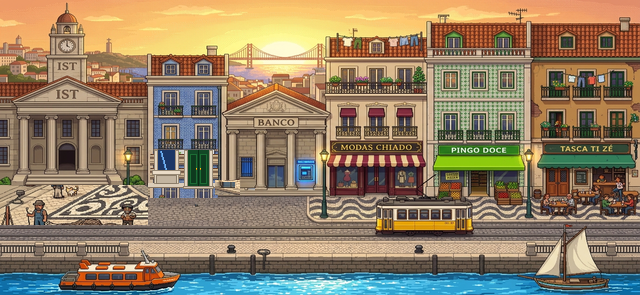
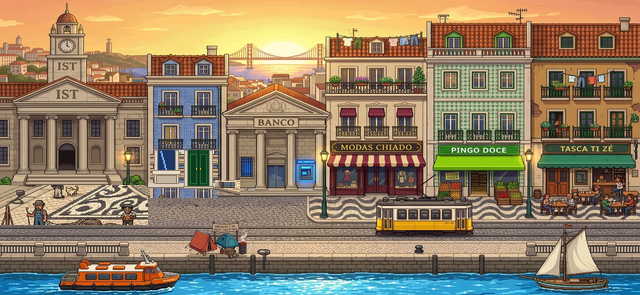
fix(ui): center top toolbar buttons and reposition Acampada to riverside quay with authentic LucasArts sprite

Changed region(s): [[0.2812, 0.7627, 0.4062, 0.8847]]

diff --git a/index.html b/index.html
@@ -198,12 +198,13 @@
         #arcade-toolbar {
             width: 100%;
             display: flex;
-            justify-content: space-between;
+            justify-content: center;
             align-items: center;
             flex-wrap: wrap;
-            gap: 6px;
-            padding: 2px 4px 6px;
+            gap: 8px;
+            padding: 4px 6px 8px;
             box-sizing: border-box;
+            text-align: center;
         }
 
         .arcade-link {
@@ -216,6 +217,7 @@
             font-size: 0.68rem;
             font-weight: 700;
             transition: all 0.2s ease;
+            white-space: nowrap;
         }
         .arcade-link:hover {
             color: #fbbf24;
@@ -227,6 +229,7 @@
             gap: 6px;
             flex-wrap: wrap;
             align-items: center;
+            justify-content: center;
         }
 
         .arcade-btn {
@@ -1777,7 +1780,7 @@ const BUILDINGS = [
     { id: 'miradouro', name: 'Miradouro', x: 0, y: 220, w: 140, h: 75, color: '#0369a1', accent: '#38bdf8', tag: 'DESCANSO & BOÉMIA', icon: '🌅', doorX: 65, doorY: 245, desc: 'O Boémio — Vista sobre o Tejo, descanso, fado à guitarra e tertúlias.' },
     { id: 'faculdade', name: 'Politec / IST', x: 0, y: 15, w: 146, h: 175, color: '#1e3a8a', accent: '#38bdf8', tag: 'ESTUDOS / ECTS', icon: '🎓', doorX: 72, doorY: 185, desc: 'Prof. Leitão — Aulas, cadeiras sequenciais e exames para o canudo no IST.' },
     { id: 'startup', name: 'IEFP / Emprego', x: 148, y: 35, w: 74, h: 155, color: '#065f46', accent: '#10b981', tag: 'IEFP & CARREIRAS', icon: '💼', doorX: 198, doorY: 195, desc: 'D. Mariana (IEFP, 45 anos) — Centro de Emprego, Orientação e Dossier Curricular.' },
-    { id: 'acampada', name: 'Acampada Rossio', x: 14, y: 186, w: 86, h: 42, color: '#dc2626', accent: '#f87171', tag: 'HABITAÇÃO & LUTA', icon: '⛺', doorX: 55, doorY: 212, desc: 'Inês — Vigília popular e assembleia pelo direito à habitação e turnos solidários.' },
+    { id: 'acampada', name: 'Acampada da Habitação', x: 185, y: 221, w: 90, h: 42, color: '#dc2626', accent: '#f87171', tag: 'HABITAÇÃO & LUTA', icon: '⛺', doorX: 235, doorY: 248, desc: 'Inês — Vigília popular e assembleia pelo direito à habitação e turnos solidários.' },
     { id: 'banco', name: 'Caixa / Banco', x: 222, y: 70, w: 104, h: 125, color: '#854d0e', accent: '#facc15', tag: 'BANCA & CRÉDITO', icon: '🏦', doorX: 275, doorY: 195, desc: 'Dr. Alcoviteiro — Poupança, Multibanco e carreiras financeiras.' },
     { id: 'loja_roupa', name: 'Loja de Roupa', x: 326, y: 70, w: 100, h: 125, color: '#db2777', accent: '#f472b6', tag: 'MODAS CHIADO', icon: '👗', doorX: 376, doorY: 195, desc: 'D. Zulmira — Fatos de gala, alfaiataria, trajes académicos e ateliê de costura.' },
     { id: 'supermercado', name: 'Pingo Doce', x: 426, y: 70, w: 104, h: 125, color: '#15803d', accent: '#86efac', tag: 'DESPENSA & RETALHO', icon: '🛒', doorX: 478, doorY: 195, desc: 'D. Maria — Mantimentos e carreiras de supermercado.' },
@@ -1874,10 +1877,10 @@ const LIVING_NPCS = [
     {
         id: 'ines_acampada',
         name: 'Inês (Acampada)',
-        x: 58, y: 196, radius: 24,
+        x: 254, y: 238, radius: 22,
         quotes: [
             "Habitação é um direito, não é um privilégio de fundos abutres!",
-            "Junta-te à nossa vigília no Rossio: partilhamos sopa quente e coragem.",
+            "Junta-te à nossa vigília ribeirinha: partilhamos sopa quente e coragem.",
             "Nenhum despejo sem alternativa digna em Lisboa!"
         ]
     }
@@ -1936,64 +1939,35 @@ function renderBoardLivingCharacters(ctx, animTimer) {
         ctx.fillRect(px2, py2 - 6 + Math.round(talkBob * 0.5), 4, 2);
     }
 
-    // 2. TENDAS & FAIXAS DA ACAMPADA DO ROSSIO (Praça do Rossio: x: 14 a 92, y: 190 a 226)
-    // Sombra das tendas no pavimento de ondas de basalto
-    ctx.fillStyle = 'rgba(0, 0, 0, 0.35)';
+    // 2. FOGAREIRO & CHAMA DA ACAMPADA RIBEIRINHA (x: 236..244, y: 236..248)
+    // Brilho quente do fogo no cais de pedra
+    const fireFlicker = Math.sin(animTimer * 12) * 1.5 + Math.cos(animTimer * 19) * 0.8;
+    const fireRadius = 14 + fireFlicker;
+    const fireGrad = ctx.createRadialGradient(240, 242, 2, 240, 242, Math.max(6, fireRadius));
+    fireGrad.addColorStop(0, 'rgba(251, 146, 60, 0.45)');
+    fireGrad.addColorStop(0.5, 'rgba(239, 68, 68, 0.20)');
+    fireGrad.addColorStop(1, 'rgba(239, 68, 68, 0)');
+    ctx.fillStyle = fireGrad;
     ctx.beginPath();
-    ctx.ellipse(32, 222, 16, 4, 0, 0, Math.PI * 2);
-    ctx.fill();
-    ctx.beginPath();
-    ctx.ellipse(75, 222, 15, 4, 0, 0, Math.PI * 2);
-    ctx.fill();
-
-    // Tenda Canadiana Encarnada
-    ctx.fillStyle = '#b91c1c';
-    ctx.beginPath();
-    ctx.moveTo(18, 221);
-    ctx.lineTo(32, 196);
-    ctx.lineTo(46, 221);
-    ctx.closePath();
-    ctx.fill();
-    ctx.fillStyle = '#dc2626';
-    ctx.beginPath();
-    ctx.moveTo(32, 196);
-    ctx.lineTo(46, 221);
-    ctx.lineTo(32, 221);
-    ctx.closePath();
-    ctx.fill();
-    ctx.fillStyle = '#450a0a';
-    ctx.beginPath();
-    ctx.moveTo(28, 221);
-    ctx.lineTo(32, 206);
-    ctx.lineTo(36, 221);
-    ctx.closePath();
+    ctx.arc(240, 242, Math.max(6, fireRadius), 0, Math.PI * 2);
     ctx.fill();
 
-    // Tenda Iglu Azul
-    ctx.fillStyle = '#0284c7';
-    ctx.beginPath();
-    ctx.arc(75, 221, 14, Math.PI, 0);
-    ctx.fill();
-    ctx.fillStyle = '#0369a1';
-    ctx.beginPath();
-    ctx.arc(77, 221, 11, Math.PI, 0);
-    ctx.fill();
-    ctx.fillStyle = '#0c4a6e';
-    ctx.fillRect(72, 212, 6, 9);
+    // Línguas de fogo animadas em pixel art
+    const flameH = Math.round(3 + Math.abs(Math.sin(animTimer * 14)) * 3);
+    ctx.fillStyle = '#f97316';
+    ctx.fillRect(239, 240 - flameH, 2, flameH);
+    ctx.fillStyle = '#fef08a';
+    ctx.fillRect(240, 241 - Math.round(flameH * 0.6), 1, Math.round(flameH * 0.6));
 
-    // Faixa Reivindicativa de Pano sobre Estacas de Madeira
-    ctx.fillStyle = '#78350f';
-    ctx.fillRect(16, 186, 2, 28);
-    ctx.fillRect(88, 186, 2, 28);
-    ctx.fillStyle = '#fef3c7';
-    ctx.fillRect(17, 186, 72, 11);
-    ctx.strokeStyle = '#b45309';
-    ctx.lineWidth = 1;
-    ctx.strokeRect(17, 186, 72, 11);
-    ctx.fillStyle = '#b91c1c';
-    ctx.font = 'bold 5px "Press Start 2P"';
-    ctx.textAlign = 'center';
-    ctx.fillText("⛺ HABITAÇÃO P/ TODOS", 53, 194);
+    // Fumo subtil a subir em direção ao céu sobre o Tejo
+    for (let f = 0; f < 3; f++) {
+        const fProg = ((animTimer * 1.2 + f * 0.9) % 2.5) / 2.5;
+        const fx = 240 + Math.sin(animTimer * 2.5 + f * 2) * 3;
+        const fy = 236 - fProg * 14;
+        const fAlpha = (1 - fProg) * 0.35;
+        ctx.fillStyle = `rgba(226, 232, 240, ${fAlpha.toFixed(2)})`;
+        ctx.fillRect(Math.round(fx), Math.round(fy), 2, 2);
+    }
 
     // Reflexo suave dourado na montra da alfaiataria Modas Chiado
     const winGlow = 0.12 + Math.sin(animTimer * 2.0) * 0.05;
@@ -2025,16 +1999,16 @@ function renderBoardLivingCharacters(ctx, animTimer) {
         const pingoFrame = (Math.floor(animTimer * 0.6) % 4 === 2) ? 1 : 0;
         ctx.drawImage(npcsLucasImg, pingoFrame * 48, 144, 48, 48, 474, 142, 48, 48);
 
-        // E. Inês da Acampada no Rossio (Row 2: sy=96, sw=48, sh=48)
+        // E. Inês da Acampada no Cais Ribeirinho (Row 2: sy=96, sw=48, sh=48)
         const inesFrame = Math.floor(animTimer * 2.8) % 2;
-        ctx.drawImage(npcsLucasImg, inesFrame * 48, 96, 48, 48, 38, 174, 48, 48);
+        ctx.drawImage(npcsLucasImg, inesFrame * 48, 96, 48, 48, 230, 216, 48, 48);
         
         // Notas musicais flutuantes da viola acústica da Inês (♪ ♫)
         const noteCycle = (animTimer * 1.3) % 2.8;
         if (noteCycle < 2.2) {
             const noteProg = noteCycle / 2.2;
-            const noteX = 58 + Math.sin(noteProg * 4.5) * 4;
-            const noteY = 175 - noteProg * 16;
+            const noteX = 252 + Math.sin(noteProg * 4.5) * 4;
+            const noteY = 215 - noteProg * 16;
             const noteAlpha = (1 - noteProg) * 0.9;
             ctx.fillStyle = `rgba(251, 191, 36, ${noteAlpha.toFixed(2)})`;
             ctx.font = '8px "Press Start 2P"';
@@ -2261,7 +2235,7 @@ ctx.imageSmoothingEnabled = false;
 // ============================================================================
 // 16-BIT BITMAPPED RETRO ASSETS (STARDEW VALLEY / EASTWARD FIDELITY)
 // ============================================================================
-const ASSET_VER = '2.7';
+const ASSET_VER = '2.8';
 const boardImg = new Image();
 boardImg.src = `assets/board.png?v=${ASSET_VER}`;
 
@@ -2550,8 +2524,8 @@ function endDay(motivo) {
     if (player.sleptAcampada) {
         const acamp = BUILDINGS.find(b => b.id === 'acampada');
         if (acamp) {
-            player.x = acamp.doorX || 55;
-            player.y = acamp.doorY || 212;
+            player.x = acamp.doorX || 235;
+            player.y = acamp.doorY || 248;
             player.targetX = player.x;
             player.targetY = player.y;
         }
